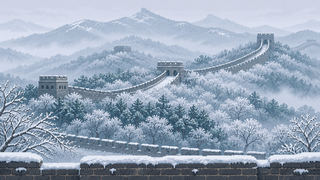
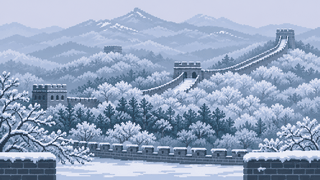
Replace all backgrounds with the new pixel-art set
Day (21) and night (12) backgrounds now come from the 新背景像素 folder
(2560x1440, 8px cells, 128 colours), restored losslessly to native
320x180 and stored as indexed PNGs. Night scenes are assigned per region
in NIGHT_BG; the Wikimedia photo pipeline and its credits are removed.

Claude-Session: https://claude.ai/code/session_01Cguaw2QMnnpnNVsFTZQCUR

diff --git a/js/bgtone.js b/js/bgtone.js
@@ -1,3 +1,3 @@
 // 由 tools/bgtone.py 生成：每张背景的平均色（low 下半截 / hor 远景带 / sky 天空）
 window.RF = window.RF || {};
-RF.BGTONE = {"8518": {"low": "#348ca7", "hor": "#597d96", "sky": "#86a5cd"}, "8519": {"low": "#1b4d54", "hor": "#5c645b", "sky": "#587f9b"}, "8520": {"low": "#9d7349", "hor": "#8d612c", "sky": "#b3b5c2"}, "8521": {"low": "#166c6b", "hor": "#326255", "sky": "#5691d6"}, "8522": {"low": "#483f32", "hor": "#754e30", "sky": "#885539"}, "8523": {"low": "#2c525a", "hor": "#406558", "sky": "#4782cd"}, "8524": {"low": "#678444", "hor": "#5b7168", "sky": "#4f7bb6"}, "8525": {"low": "#4d5d6d", "hor": "#4d6077", "sky": "#486a9d"}, "8526": {"low": "#758674", "hor": "#676d75", "sky": "#92abd3"}, "8527": {"low": "#3f404d", "hor": "#5a6c80", "sky": "#77869e"}, "8528": {"low": "#768290", "hor": "#8095a9", "sky": "#c6cfe1"}, "8530": {"low": "#6e5a5c", "hor": "#744631", "sky": "#71bafa"}, "8531": {"low": "#4d5367", "hor": "#706054", "sky": "#636e9a"}, "8532": {"low": "#634538", "hor": "#774d3d", "sky": "#aa3a2e"}, "8533": {"low": "#5f6798", "hor": "#6e87c1", "sky": "#4b74cd"}, "8534": {"low": "#9dadc9", "hor": "#939db1", "sky": "#b3b5cb"}, "8535": {"low": "#40422b", "hor": "#614e2b", "sky": "#846e39"}, "8536": {"low": "#394d52", "hor": "#404e52", "sky": "#56696e"}, "8537": {"low": "#2e3c42", "hor": "#364146", "sky": "#414d55"}, "8538": {"low": "#476f8b", "hor": "#2e5368", "sky": "#8fb1ce"}, "8539": {"low": "#3f617f", "hor": "#64809e", "sky": "#7392b0"}};
+RF.BGTONE = {"8518": {"low": "#189dac", "hor": "#518499", "sky": "#6b9cd0"}, "8519": {"low": "#0d776f", "hor": "#496357", "sky": "#557c96"}, "8520": {"low": "#af7f3a", "hor": "#996a21", "sky": "#a7b4c8"}, "8521": {"low": "#1d7874", "hor": "#2e6966", "sky": "#4899e0"}, "8522": {"low": "#565038", "hor": "#795831", "sky": "#9d602a"}, "8523": {"low": "#2e6273", "hor": "#517d5e", "sky": "#4b91de"}, "8524": {"low": "#5c8432", "hor": "#5b715a", "sky": "#507cba"}, "8525": {"low": "#515b64", "hor": "#455568", "sky": "#4a6ca4"}, "8526": {"low": "#718a6a", "hor": "#697172", "sky": "#80a6d4"}, "8527": {"low": "#454b57", "hor": "#586a7a", "sky": "#6a7b93"}, "8528": {"low": "#8394ab", "hor": "#798faa", "sky": "#bec8e2"}, "8530": {"low": "#7e6965", "hor": "#74452f", "sky": "#67bcf7"}, "8531": {"low": "#4a5359", "hor": "#686043", "sky": "#4d6998"}, "8532": {"low": "#48453e", "hor": "#715745", "sky": "#a3422d"}, "8533": {"low": "#5f688e", "hor": "#7190c0", "sky": "#3a6ecd"}, "8534": {"low": "#8ca9ca", "hor": "#8697ad", "sky": "#b7bed2"}, "8535": {"low": "#4a4c27", "hor": "#705d31", "sky": "#857639"}, "8536": {"low": "#30535a", "hor": "#3a5157", "sky": "#506d73"}, "8537": {"low": "#34454b", "hor": "#384749", "sky": "#526063"}, "8538": {"low": "#5584a4", "hor": "#255569", "sky": "#a0c1d8"}, "8539": {"low": "#336485", "hor": "#5d8bad", "sky": "#7097b6"}};

diff --git a/js/gfx/regions.js b/js/gfx/regions.js
@@ -1,5 +1,5 @@
-// 六个区域的背景（来自 assets/bg 的像素画）、地面花纹、水面 / 深谷、天气粒子。
-// 背景按“区域 × 天气”挑图，走过一个区域时依次淡入下一张；夜里用压暗偏蓝的版本。
+// 六个区域的背景（assets/bg 的像素画贴图，原生 320×180，游戏里整数倍放大）、地面花纹、水面 / 深谷、天气粒子。
+// 背景按“区域 × 天气”挑图，走过一个区域时依次淡入下一张；夜里换成 assets/bg/night 的夜景像素画。
 (function () {
   const C = RF.CFG, U = RF.U, X = RF.FX, LV = RF.LEVEL;
   const PW = X.PW, PH = X.PH, P = C.PIX;
@@ -19,10 +19,14 @@
     tibet: { bg: { clear: ['8523'], snow: ['8518', '8523'] },
       water: { day: 586, night: 568, frozen: 'night' }, waterCol: ['#3a78a8', '#0c1a3e'], tile: 'snowrock', glow: 0.8 }
   };
-  // 夜景：实拍的中国夜景照片像素化而成（assets/bg/night，来源与署名见 CREDITS.md）；没载入时退回把白天的图压暗
+  // 夜景：作者提供的夜景像素画（新背景像素/夜间真实N → assets/bg/night/nN.png），按画面内容分到各站；没载入时退回把白天的图压暗
   const NIGHT_BG = {
-    jiangnan: ['jiangnan1', 'jiangnan2'], garden: ['garden1', 'garden2'], autumn: ['autumn1', 'autumn2', 'autumn3'],
-    wall: ['wall1'], glacier: ['glacier1', 'glacier2'], tibet: ['tibet1', 'tibet2']
+    jiangnan: ['n2', 'n12', 'n5'],   // 白墙水巷与乌篷船、灯笼河街与石拱桥、雨后灯笼老街
+    garden: ['n3', 'n10', 'n11'],    // 灯火楼阁、樱花水榭、宫殿与画舫
+    autumn: ['n9', 'n7'],            // 黄昏河谷村落、廊下望山村灯火
+    wall: ['n6'],                    // 悬崖栈道与瀑布（险峻山势，接长城的深谷）
+    glacier: ['n1'],                 // 群山云海下的山村
+    tibet: ['n4', 'n8']              // 雪山湖畔、湖边山城
   };
   const ALL_NIGHT = Object.values(NIGHT_BG).flat();
   const ALL_BG = [...new Set(Object.values(R).flatMap(r => Object.values(r.bg).flat()))];

diff --git a/tools/build_assets.py b/tools/build_assets.py
@@ -1,9 +1,11 @@
 #!/usr/bin/env python3
 """生成游戏素材。
 
-用法：python3 tools/build_assets.py <背景像素文件夹>
+用法：python3 tools/build_assets.py <新背景像素文件夹>
 
-1. 把背景图（1280×720，每 4 像素一格）还原成原生的 320×180，存到 assets/bg/。
+1. 把背景图（320×180 的整数倍放大，如 2560×1440 每 8 像素一格）还原成原生的 320×180：
+   白天 IMG_xxxx_pixel.png → assets/bg/xxxx.png，夜里 夜间真实N_pixel.png → assets/bg/night/nN.png。
+   哪张图用在哪一站写在 js/gfx/regions.js 开头。
 2. 用下面的像素定义画出唐朝旅人的帧动画与障碍、道具，拼成 assets/sprites.png，
    并写出 js/atlas.js（每个图块的位置与锚点）。
 
@@ -16,19 +18,55 @@ ROOT = os.path.dirname(os.path.dirname(os.path.abspath(__file__)))
 OUT_BG = os.path.join(ROOT, 'assets', 'bg')
 
 # ---------------------------------------------------------------- 背景
+# 行内通行做法：背景是画师画好的贴图，按原生分辨率（320×180，一格一像素）存一份，
+# 游戏里再整数倍、最近邻放大；代码只负责摆放、切换、调色，不改画面本身。
+NATIVE = (320, 180)
+
+def to_native(im):
+    """把放大过的像素画（每 N×N 一格）还原成 320×180，每格取中心像素（避开格边）。"""
+    w, h = im.size
+    n = w // NATIVE[0]
+    if n < 1 or (w, h) != (NATIVE[0] * n, NATIVE[1] * n):
+        raise SystemExit('背景尺寸 %dx%d 不是 320×180 的整数倍' % (w, h))
+    small = Image.new('RGB', NATIVE)
+    px, sp = im.load(), small.load()
+    for y in range(NATIVE[1]):
+        for x in range(NATIVE[0]):
+            sp[x, y] = px[x * n + n // 2, y * n + n // 2]
+    return small
+
+def indexed(im):
+    """≤256 色就存成调色板 PNG：颜色一点不变，文件更小。"""
+    cols = im.getcolors(256)
+    if not cols:
+        return im
+    pal = [c for _, c in cols]
+    idx = {c: i for i, c in enumerate(pal)}
+    out = Image.new('P', im.size)
+    out.putpalette([v for c in pal for v in c])
+    out.putdata([idx[c] for c in im.getdata()])
+    return out
+
+def bg_name(f):
+    """IMG_8536_pixel.png → 8536（白天）；夜间真实7_pixel.png → night/n7（夜里）"""
+    base = os.path.basename(f).rsplit('.', 1)[0].replace('_pixel', '')
+    if base.startswith('IMG_'):
+        return base[4:]
+    if base.startswith('夜间真实'):
+        return 'night/n' + base[len('夜间真实'):]
+    return None
+
 def build_backgrounds(src):
-    os.makedirs(OUT_BG, exist_ok=True)
+    """python3 tools/build_assets.py <新背景像素文件夹>：白天 IMG_xxxx、夜里 夜间真实N 都在这一个文件夹里。"""
+    os.makedirs(os.path.join(OUT_BG, 'night'), exist_ok=True)
     for f in sorted(glob.glob(os.path.join(src, '*.png'))):
-        im = Image.open(f).convert('RGB')
-        w, h = im.size
-        small = Image.new('RGB', (w // 4, h // 4))
-        px, sp = im.load(), small.load()
-        for y in range(h // 4):
-            for x in range(w // 4):
-                sp[x, y] = px[x * 4 + 2, y * 4 + 2]     # 取每格中心，避开格边
-        # 原样还原：每格一个像素，不锐化、不调色、不压色（v1.2 起；之前压成 40 色会丢细节）
-        name = os.path.basename(f).split('_')[1] + '.png'   # IMG_8536_pixel.png → 8536.png
-        small.save(os.path.join(OUT_BG, name), optimize=True)
+        name = bg_name(f)
+        if not name:
+            print('skip', os.path.basename(f)); continue
+        small = to_native(Image.open(f).convert('RGB'))
+        # 原样还原：不锐化、不调色、不压色
+        small = indexed(small)
+        small.save(os.path.join(OUT_BG, name + '.png'), optimize=True)
         print('bg', name, small.size)
 
 # ---------------------------------------------------------------- 调色板

diff --git a/CREDITS.md b/CREDITS.md
@@ -1,25 +1,6 @@
 # 素材来源与署名
 
-## 夜景背景
+## 背景
 
-`assets/bg/night/` 里的夜景由下列照片裁剪、缩小并像素化而成（`tools/night_pixel.py`），照片来自 Wikimedia Commons。
-标注 CC BY-SA 的照片，其像素化版本同样以相同的 CC BY-SA 许可分享；其余按各自许可署名使用。
-
-| 文件 | 用在 | 原照片 | 作者 | 许可 |
-| --- | --- | --- | --- | --- |
-| jiangnan1.png | 江南烟雨 | [Zhouzhuang at night 12.jpg](https://commons.wikimedia.org/wiki/File:Zhouzhuang_at_night_12.jpg) | EditQ | CC BY-SA 4.0 |
-| jiangnan2.png | 江南烟雨 | [Boat on canal in Xitang Town at night 2.jpg](https://commons.wikimedia.org/wiki/File:Boat_on_canal_in_Xitang_Town_at_night_2.jpg) | そらみみ | CC BY-SA 4.0 |
-| garden1.png | 宫苑园林 | [North-eastern corner tower (Forbidden City) 2016 March.jpg](https://commons.wikimedia.org/wiki/File:North-eastern_corner_tower_(Forbidden_City)_2016_March.jpg) | Morio | CC BY-SA 4.0 |
-| garden2.png | 宫苑园林 | [Starry Turret Of Palace Museum (243649989).jpeg](https://commons.wikimedia.org/wiki/File:Starry_Turret_Of_Palace_Museum_(243649989).jpeg) | Wang | CC0 |
-| autumn1.png | 秋山湖泊 | [Xijiang Guizhou Evening.jpeg](https://commons.wikimedia.org/wiki/File:Xijiang_Guizhou_Evening.jpeg) | MDRX | CC BY-SA 3.0 |
-| autumn2.png | 秋山湖泊 | [Fenghuang County night view 20190727.jpg](https://commons.wikimedia.org/wiki/File:Fenghuang_County_night_view_20190727.jpg) | Sunyiming | CC BY-SA 4.0 |
-| wall1.png | 长城 | [Juyongguan Great Wall under Stars.jpg](https://commons.wikimedia.org/wiki/File:Juyongguan_Great_Wall_under_Stars.jpg) | Tim Wang | CC BY-SA 2.0 |
-| glacier1.png | 雪山冰川 | [Namtso Lake's Night (15268708687).jpg](https://commons.wikimedia.org/wiki/File:Namtso_Lake%27s_Night_(15268708687).jpg) | leozhong84 from Shanghai, China | CC BY 2.0 |
-| glacier2.png | 雪山冰川 | [The Moon and Milky Way Arch Above the Golden Hall (ann22042g).tiff](https://commons.wikimedia.org/wiki/File:The_Moon_and_Milky_Way_Arch_Above_the_Golden_Hall_(ann22042g).tiff) | Likai Lin/IAU OAE | CC BY 4.0 |
-| tibet1.png | 雪域圣湖 | [Budalagong.jpg](https://commons.wikimedia.org/wiki/File:Budalagong.jpg) | SUNDAIYANG | CC BY-SA 4.0 |
-| tibet2.png | 雪域圣湖 | [Lhasa-Potala-nachts-20-gespiegelt-2014-gje.jpg](https://commons.wikimedia.org/wiki/File:Lhasa-Potala-nachts-20-gespiegelt-2014-gje.jpg) | Gerd Eichmann | CC BY-SA 4.0 |
-| autumn3.png | 秋山湖泊 | [Night view of the building.jpg](https://commons.wikimedia.org/wiki/File:Night_view_of_the_building.jpg) | 见来源页 | CC BY 4.0 |
-
-## 白天背景
-
-`assets/bg/` 里的白天背景来自作者提供的像素画（`背景像素`）。
+`assets/bg/`（白天）和 `assets/bg/night/`（夜里）的背景都来自作者提供的像素画（`新背景像素` 文件夹），
+由 `tools/build_assets.py` 按原样还原成 320×180（每格取一个像素，不调色、不压色）。

diff --git a/README.md b/README.md
@@ -59,8 +59,9 @@ v1.2 失误回溯：失误后画面倒带，回到失误点往回至少 3 拍、
 | --- |
 | ![融合](docs/blend.png) |
 
-夜景（v1.2）：夜里换成实拍的中国夜景像素画，每站一到三张：周庄与西塘水巷、故宫角楼、西江千户苗寨、凤凰古城、婺源婺女洲、居庸关长城星空、纳木错星轨、银河、布达拉宫。
-照片来自 Wikimedia Commons（自由许可），由 `tools/night_pixel.py` 裁剪并像素化，来源与署名见 [CREDITS.md](CREDITS.md)。夜景图没载入时退回把白天的图压暗。
+背景（v1.3）：白天 21 张、夜里 12 张全部换成 `新背景像素` 里的像素画（2560×1440，每 8 像素一格，128 色）。
+按像素游戏的通行做法：背景是贴图，按原生 320×180 存一份，游戏里整数倍最近邻放大；代码只管摆放、切换、调色。
+夜景按画面分到各站（见 `js/gfx/regions.js` 的 `NIGHT_BG`），夜景图没载入时退回把白天的图压暗。
 
 | 夜景 |
 | --- |
@@ -115,10 +116,10 @@ v1.2 失误回溯：失误后画面倒带，回到失误点往回至少 3 拍、
 
 ## 素材
 
-- `assets/bg/`：背景像素画，由 `tools/build_assets.py` 从“背景像素”文件夹里的 1280×720 图还原成原生 320×180。哪一站、哪种天气用哪几张图，写在 `js/gfx/regions.js` 开头。
+- `assets/bg/`：背景像素画，由 `tools/build_assets.py` 从“新背景像素”文件夹里的图（320×180 的整数倍）还原成原生 320×180；白天 `IMG_xxxx_pixel.png` → `bg/xxxx.png`，夜里 `夜间真实N_pixel.png` → `bg/night/nN.png`。哪一站、哪种天气用哪几张图，写在 `js/gfx/regions.js` 开头。
 - `assets/sprites.png`：旅人（7 套衣服 × 13 帧）、障碍、道具、路边摆件、石碑、按键图标，全部带 1 像素深色描边。
 - `assets/ui/`：界面用的九宫格边框（frame / btn / paper）和像素图标。`sprites@4x-preview.png` 是放大 4 倍的预览。
-- 想改人物或道具：改 `tools/build_assets.py` 里的像素定义后运行 `python3 tools/build_assets.py`；换背景：`python3 tools/build_assets.py ~/游戏/背景像素`。
+- 想改人物或道具：改 `tools/build_assets.py` 里的像素定义后运行 `python3 tools/build_assets.py`；换背景：`python3 tools/build_assets.py ~/游戏/新背景像素` 后再跑 `python3 tools/bgtone.py`。
 
 ## 运行
 
